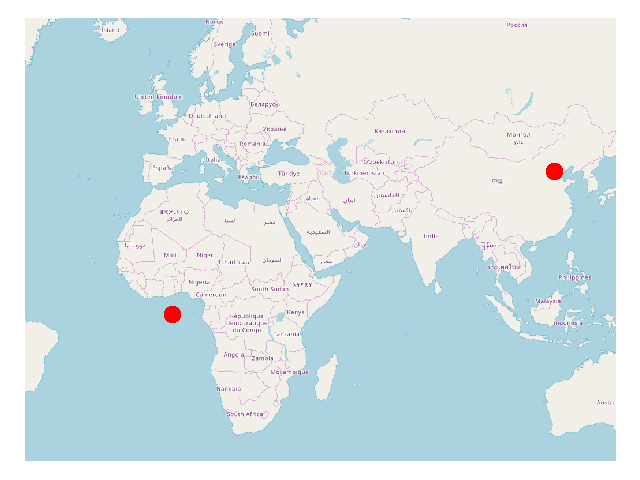
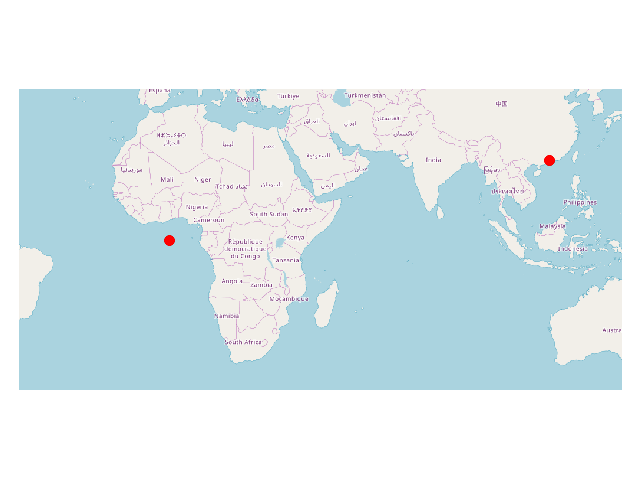
fix some bugs

diff --git a/window.py b/window.py
@@ -152,14 +152,13 @@ class WINGUI(QMainWindow):
         
         if str(self.myIP) in IP_tuple:
             self.IP_list_tuple.append(IP_tuple)
-            printWARN(str(len(self.IP_list_tuple)))
+            printWARN("IP_tuple"+str(len(self.IP_list_tuple)))
             if len(self.IP_list_tuple) >= 100 and self.set_Png:
                 self.set_Png == False  
                 # self.Thread_cap.stop()
                 self.Image.setIP(self.IP_list_tuple[:100], self.myIP)
 
     def show_png(self):
-        printTEST("set pic")
         self.set_Png = True
         pix = QPixmap("plot.png")
         pix = pix.scaled(QSize(341, 461), Qt.KeepAspectRatio)
@@ -176,19 +175,16 @@ class WINGUI(QMainWindow):
         # lastpointtime = 0
         # size = eltime - lastpointtime
         size = 1
+        # printWARN(str(self.port))
         oldPoints = self.m_series.pointsVector()
         points = []
-
         for i in range(1,len(oldPoints)): 
             points.append(QPointF(i-size ,oldPoints[i].y()))
-
         sizePoints = len(points)
         for k in range(size): 
             points.append(QPointF(k+sizePoints, self.port));  
         self.m_series.replace(points) 
-      
         self.port = 0
-
         self.timer.start(800)
 
 

diff --git a/unit/capThread.py b/unit/capThread.py
@@ -86,19 +86,26 @@ class cap_package(QThread):
                     self.signal_portstr.emit(port)
                 if not src_dest_ip == None :
                     self.signal_iptuple.emit(src_dest_ip)
-                time.sleep(1)
                 self.signal_packdict.emit(Info)
+                time.sleep(1)
             elif self.status == 1:
                 '''flow'''
+                if not src_dest_ip == None :
+                    self.signal_iptuple.emit(src_dest_ip)
                 if not port == None :
                     self.signal_portstr.emit(port)
+                self.signal_packdict.emit(Info)
             else:
                 if self.is_stop:
                     break
+                if not port == None :
+                    self.signal_portstr.emit(port)
+                    
+                self.signal_packdict.emit(Info)
                 if src_dest_ip == None:
                     continue
-                time.sleep(0.1)
                 self.signal_iptuple.emit(src_dest_ip)
+              
            
         
     def setstuid(self, eth_name = None):

diff --git a/common/address.py b/common/address.py
@@ -1,7 +1,7 @@
 def get_IP4_addr( IPaddr ):
-    byte_str = map('{:02d}'.format, IPaddr)
-    Ip_addr = '.'.join(byte_str)
-    return Ip_addr
+    byte_str = map('{:d}'.format, IPaddr)
+    ip_ = '.'.join(byte_str)
+    return ip_
 
  # Returns MAC as string from bytes (ie AA:BB:CC:DD:EE:FF)
 def get_mac_addr(mac_raw):
@@ -10,7 +10,7 @@ def get_mac_addr(mac_raw):
     return mac_addr
 
 def get_IP6_addr(ip6_raw):
-    byte_str = map('{:x}'.format, ip6_raw)
+    byte_str = map('{:02x}'.format, ip6_raw)
     new = []
     i = 0
     s = ''
@@ -18,8 +18,10 @@ def get_IP6_addr(ip6_raw):
         if i%2 == 1:
             s = s+item
             new.append(s)
+            i+=1
         else:
             s = item
+            i+= 1
 
     Ip_addr = '.'.join(new)
     return Ip_addr
@@ -29,3 +31,6 @@ def get_raw_data(byte_str):
     for x in bytes(byte_str):
         string = string + '{:x}'.format(x) +" "
     return string
+
+
+

diff --git a/unit/geo.py b/unit/geo.py
@@ -34,7 +34,7 @@ def get_img(IP_list_tuple, myIP):
                 XY = get_XY(ip = i)
                 if not XY == None:
                     IP_xy.append(XY)
- 
+    printWARN("+"*100)
     mp = smopy.Map((min(IP_xy)[0], min(IP_xy)[1], max(IP_xy)[0], max(IP_xy)[1]),z=5)
     x = []
     y = []
@@ -42,6 +42,7 @@ def get_img(IP_list_tuple, myIP):
         x1, y1 = mp.to_pixels(xy[0], xy[1])
         x.append(x1)
         y.append(y1)
+    printWARN("*"*100)
     mp.save_png("curmap.png")
     plt.figure()
     ax = plt.subplot(111)
@@ -53,7 +54,7 @@ def get_img(IP_list_tuple, myIP):
     plt.axis('off')
     plt.tight_layout()
     ax.imshow(mp.img)
-    ax.plot(x, y, 'or', ms=10, mew=2)
+    ax.plot(x, y, 'or')
     plt.savefig("plot.png")
     
 

diff --git a/ethFrame/extra_Ethernet.py b/ethFrame/extra_Ethernet.py
@@ -15,7 +15,7 @@ class extra_Ethernet:
         try:
             return FRAME_TYPE[prototype]
         except:
-            printWARN("extra_Ethernet<get_FrameType> not find "+prototype)
+            printWARN("extra_Ethernet<get_FrameType> not find "+str(prototype))
             return str(prototype)
 
         

diff --git a/README.md b/README.md
@@ -1,16 +1,11 @@
 # BUPT计算机网络课程设计—网络流量嗅探器
 
-> 又是坑队友的一学期，我们又要继续相互挖坑了！
-
 ## 任务描述
 
         功能强悍的网络嗅探器有很多，之前了解到冰人借助网卡混杂模式进行流量嗅探捕捉了很多人的隐私信息，感觉流量嗅探远不止我们之前使用的Wireshark那么单纯。
 
         本次想展开的网络流量嗅探器，准确的来说应该是**原始套接字嗅探器**。
 
-1. 我们的嗅探器将可以接收各种高层协议：如TCP、UDP、ICMP的IP头信息。然后对其进行分析获取其各个段数据，并将这些数据以可视的形式展现；举个例子，我们获取IP包头，最基础的可以提取出其发送地址和目的地址，可以借助较为完善的GeoLiteCity数据库映射出其实际所在地。
-2. 其次希望我们的嗅探器能够捕获到SMTP、POP3和IMAP等的认证信息
-3. 希望能够对各个应用程序进行流量监控
 
 
 
@@ -32,8 +27,4 @@
 
 依赖包：
 
-pygeocoder
-
-pycap
-
-dpkt
+pypcap
